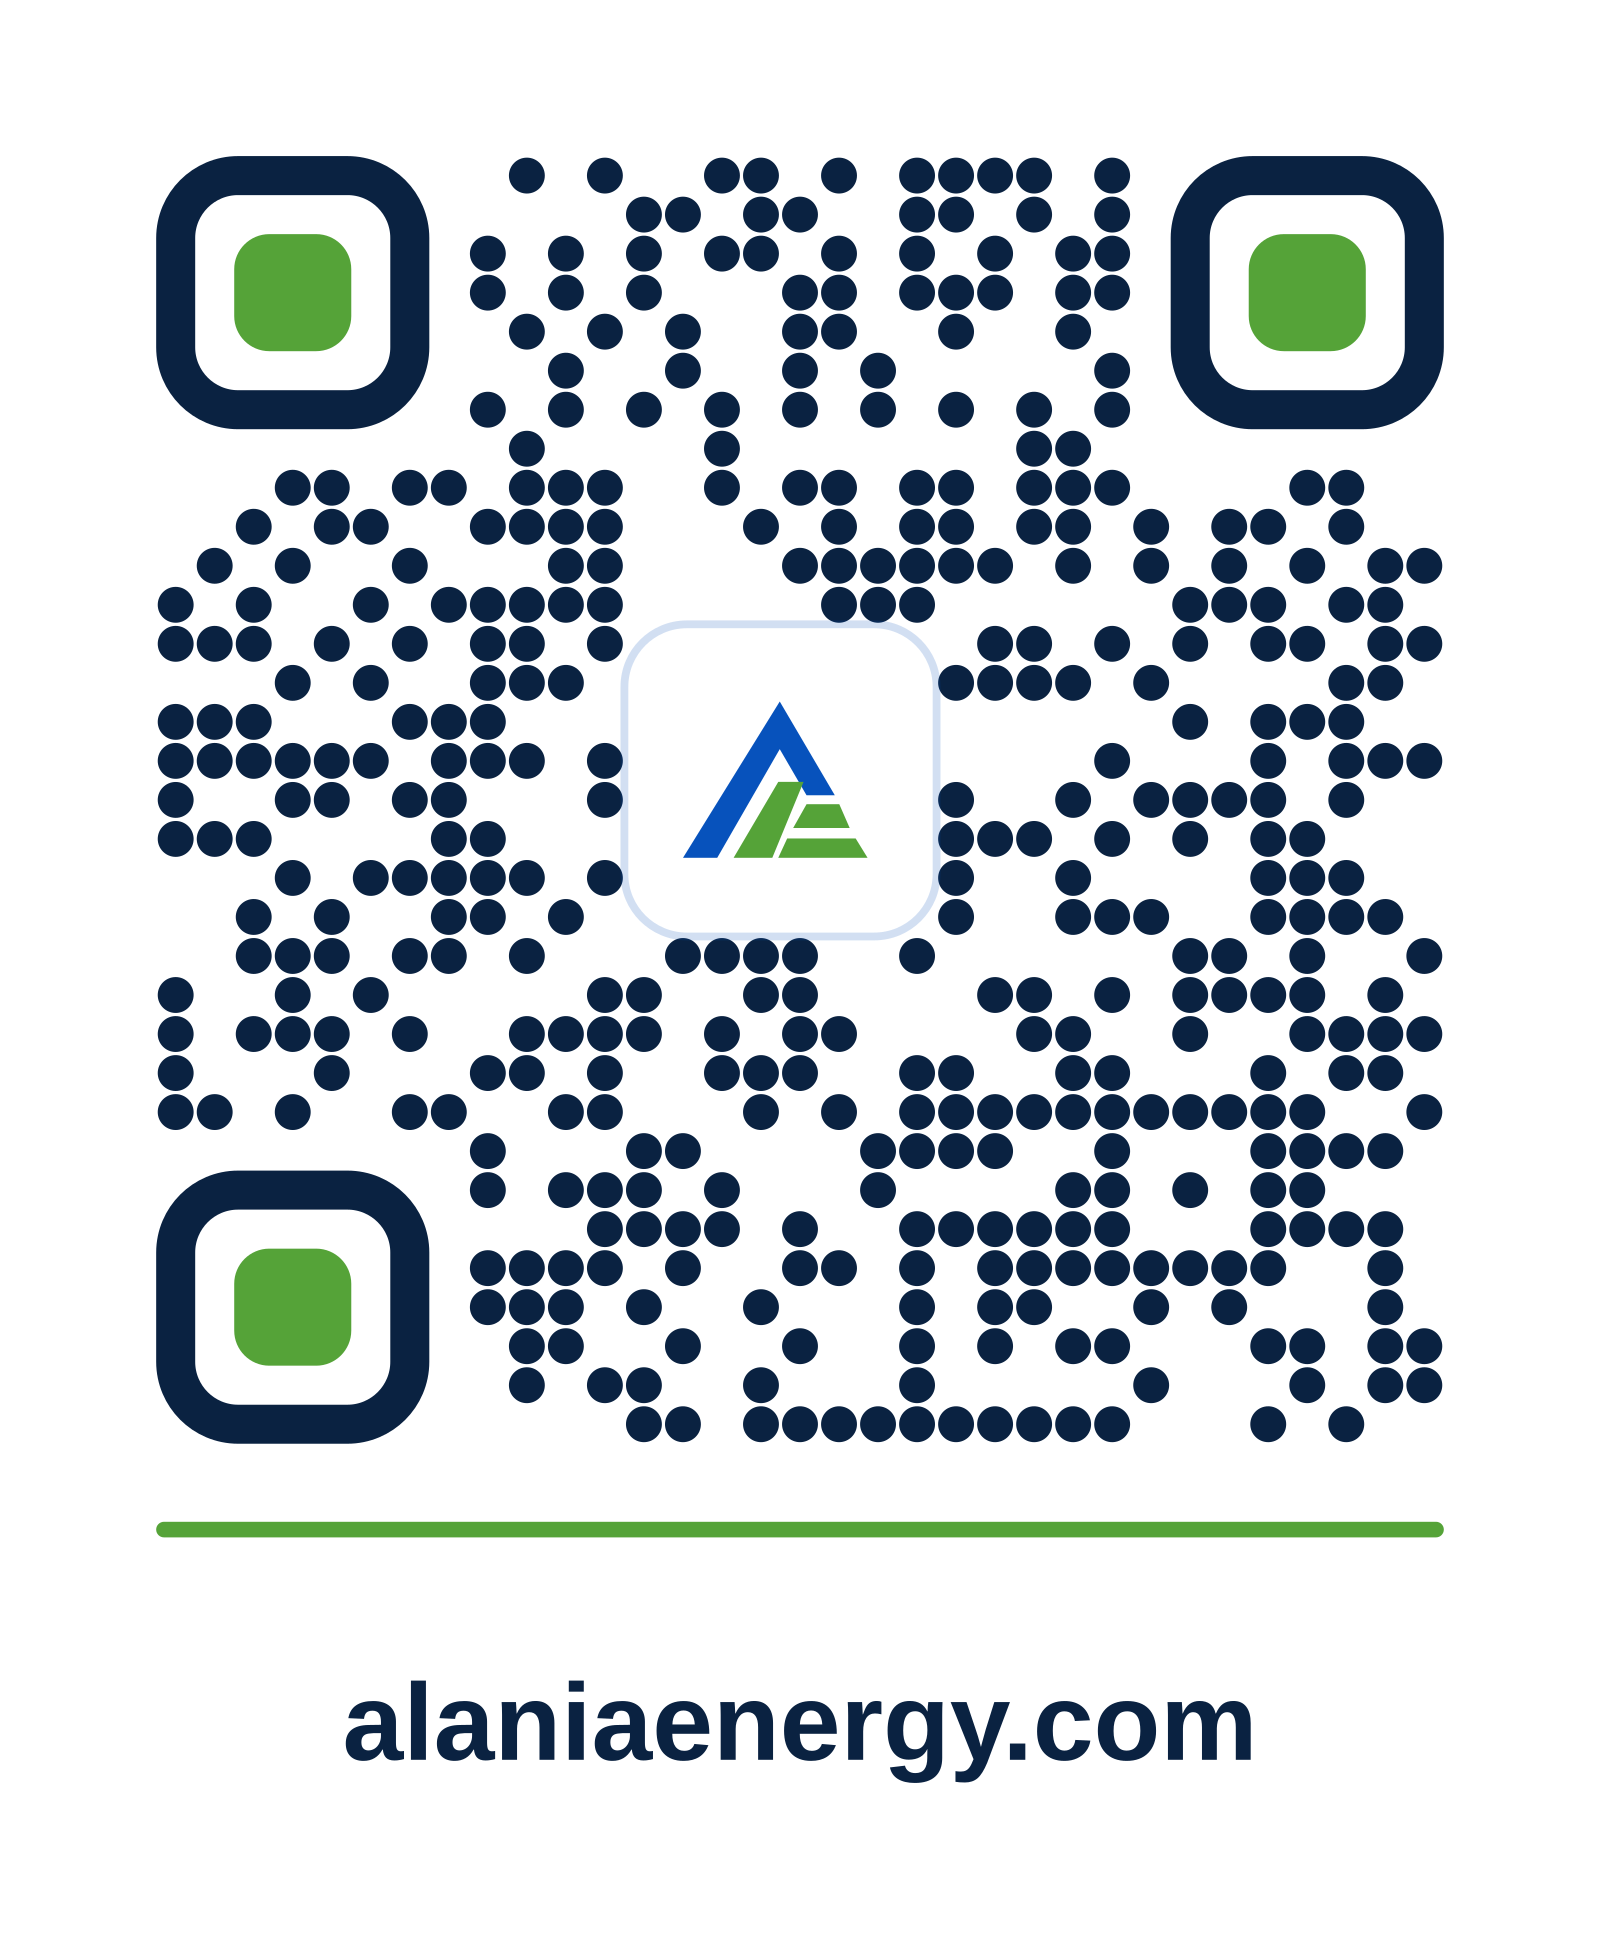
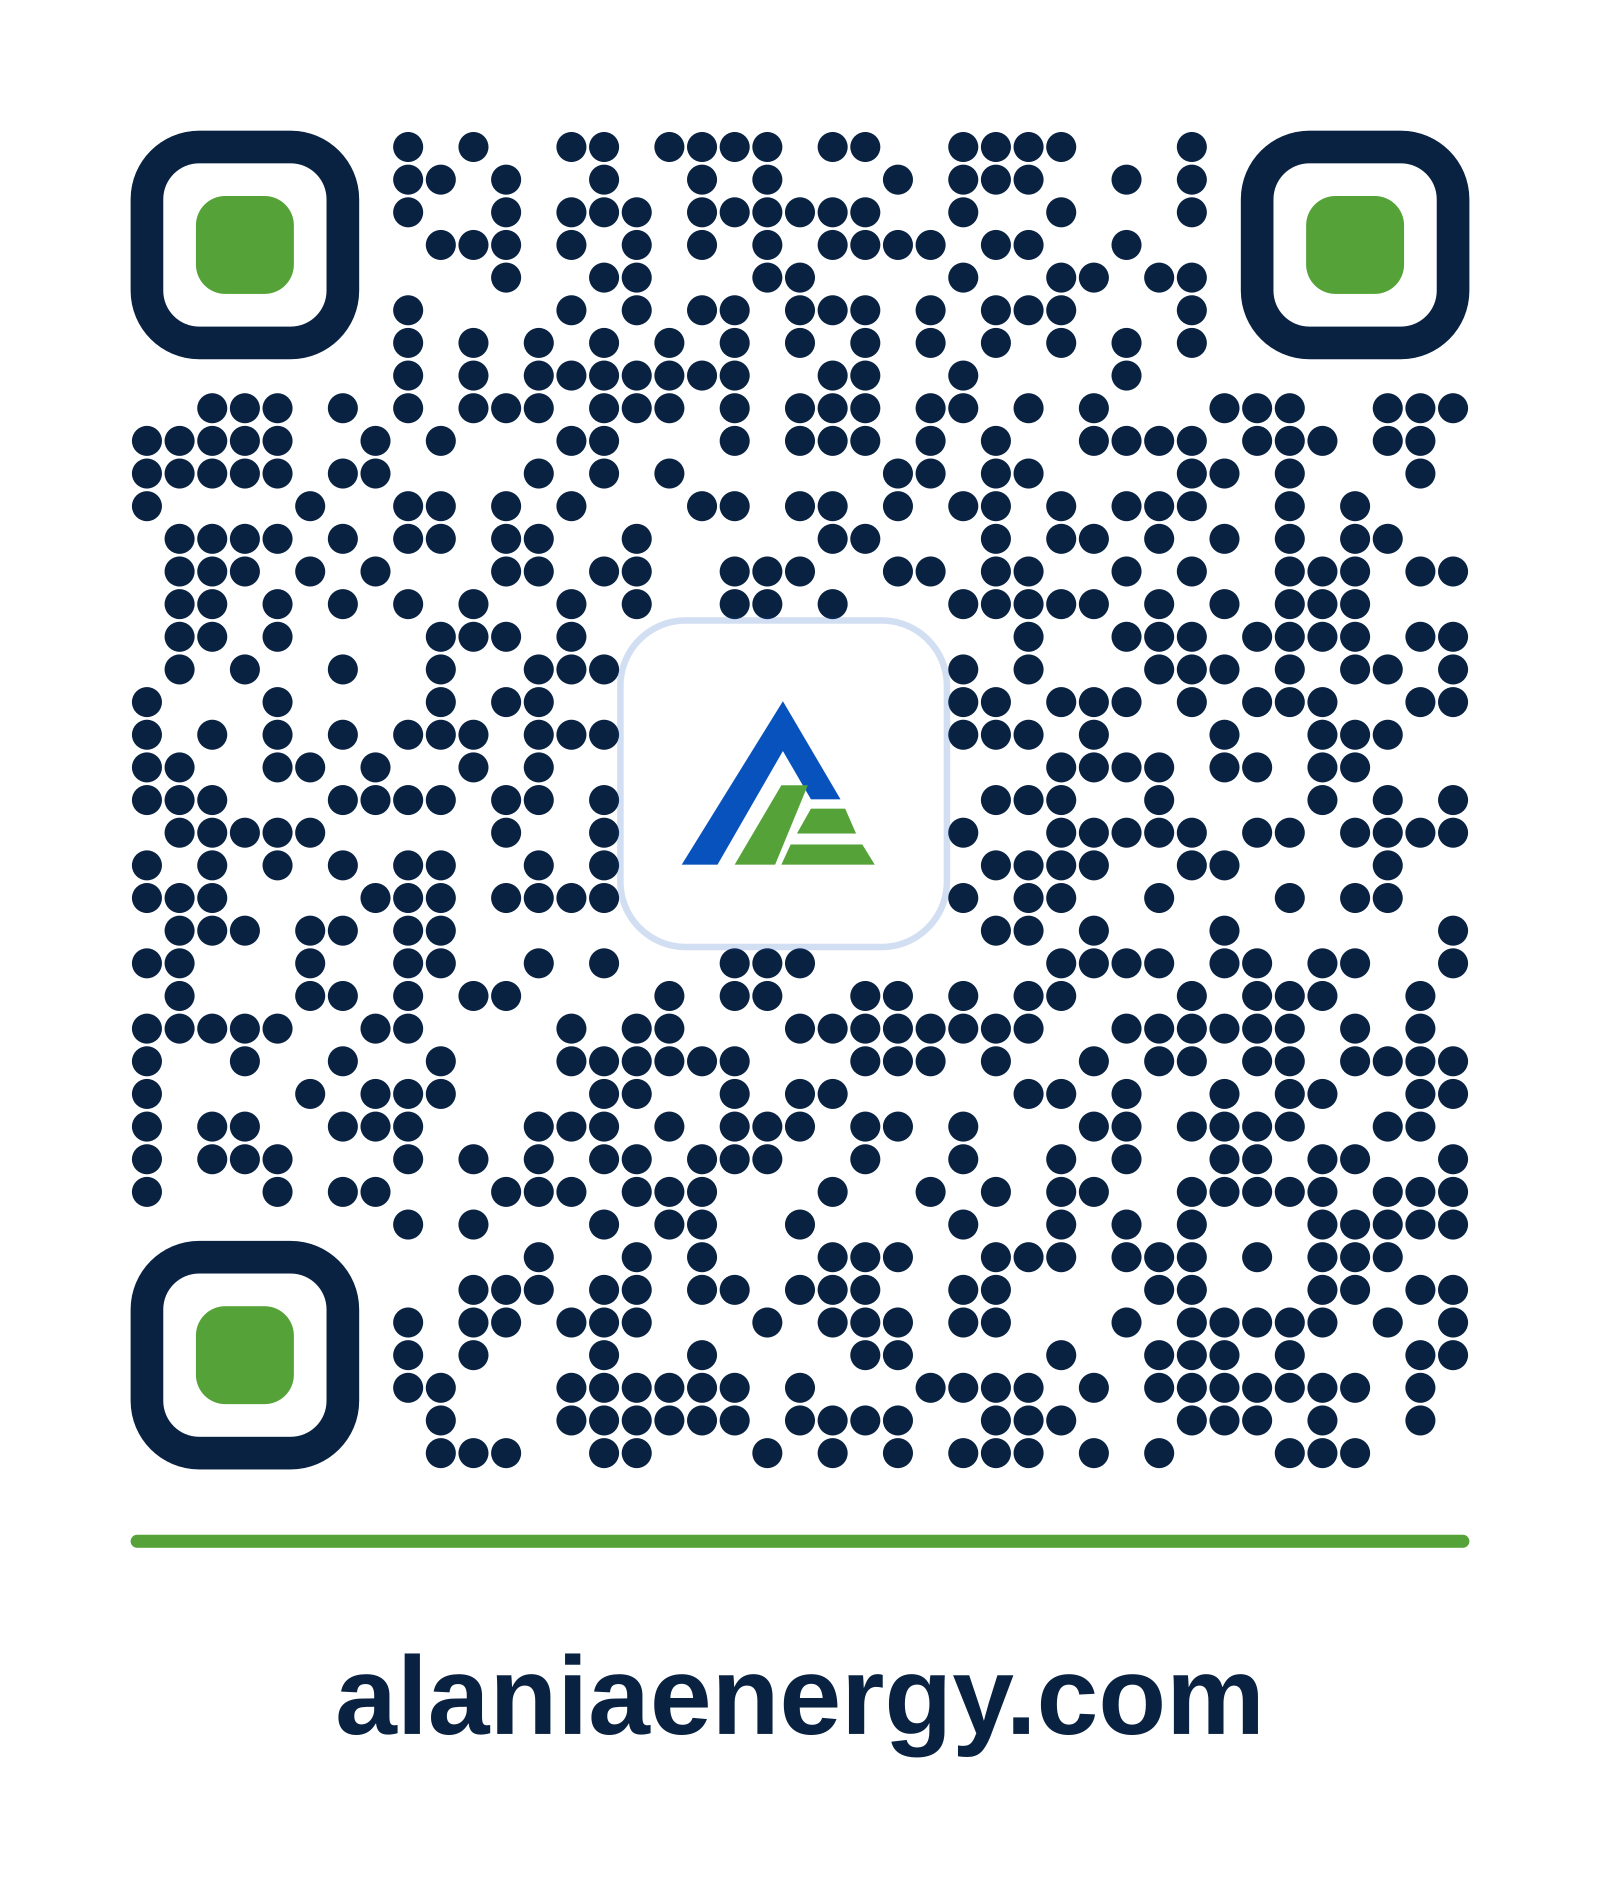
QR codes now encode Mercury CRM dynamic short links (scan tracking) with Alania branding
Claude-Session: https://claude.ai/code/session_01UDoxEdjnuLEd7pgmTB4g5N

diff --git a/README.md b/README.md
@@ -51,8 +51,14 @@ BASE_URL=https://<deployment> ACCESS_CODE=... DATABASE_URL=... EXPECTED_PDF_BYTE
 Overwrite the PDF and/or PPTX in `private/`, update `bytes`, `sizeLabel`, `pages`, `dated` (and `HIGHLIGHTS` if figures changed) in `lib/brochure.ts`, commit, push.
 
 ## QR codes
-`npm run qr` regenerates `assets/qr/*.png|svg` for `https://alaniaenergy.com/` and `https://alaniaenergy.com/investors`.
-They only scan to something once DNS for alaniaenergy.com points at Vercel.
+The printed codes are **tracked by the Mercury CRM** (XBeton location > Marketing > QR Codes > folder "Alania Energy"):
+| Code | CRM short link | Destination |
+|---|---|---|
+| Alania Energy - Website Home | https://login.mercurycalldesk.com/q/jUVBkvfX5 | https://alaniaenergy.com/ |
+| Alania Energy - Investor Briefing | https://login.mercurycalldesk.com/q/CoiCpy4mF | https://alaniaenergy.com/investors |
+
+`npm run qr` draws the branded versions (navy dots, green eyes, Alania mark, caption) of those CRM short links into `assets/qr/*.png|svg`.
+Scans, last scan and destination are managed in the CRM; change a destination there without reprinting.
 
 ## Domain and email
 1. In Vercel, project Domains: add `alaniaenergy.com` and `www.alaniaenergy.com`; copy the exact A / CNAME values Vercel shows and set them at the registrar.
